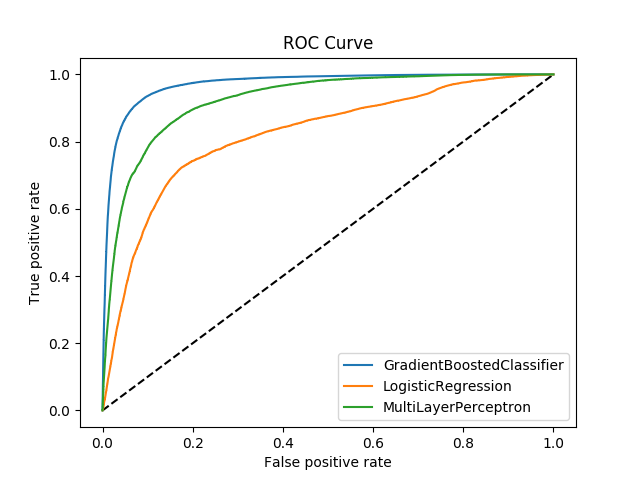
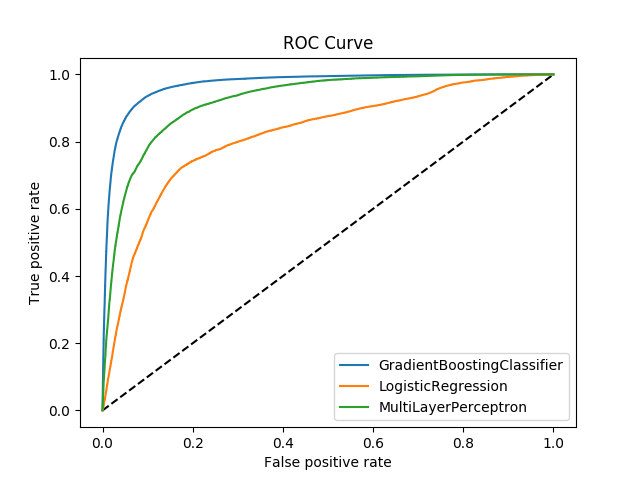
readme updated

Changed region(s): [[0.5938, 0.75, 0.875, 0.875], [0.5, 0.75, 0.5312, 0.8125], [0.5, 0.8438, 0.5312, 0.875]]

diff --git a/src/roc_profit_curve.py b/src/roc_profit_curve.py
@@ -86,14 +86,14 @@ if __name__ == "__main__":
         y_pred_gbc = gbc.predict_proba(X_holdout)[:,1]
         fpr_gbc, tpr_gbc, thresholds_gbc = roc_curve(y_holdout, y_pred_gbc)
         profit_gbc = tpr_gbc * cost_benefit[0,0] + fpr_gbc * cost_benefit[0,1]
-        model_profits.append(('GradientBoostedClassifier', gbc, profit_gbc, thresholds_gbc))
+        model_profits.append(('GradientBoostingClassifier', gbc, profit_gbc, thresholds_gbc))
         score = roc_auc_score(y_holdout, y_pred_gbc)
         print('ROC AUC: %.3f' % score)
         te= time()
         print("Time passed:", te-ts) 
 
     ### Load the final Logistic model
-    model_lg = 1
+    model_lg = 0
     if model_lg:
         print('\nLoad LR model')
         ts = time()
@@ -109,7 +109,7 @@ if __name__ == "__main__":
         print("Time passed:", te-ts) 
 
     ### Load the final mlp model
-    model_mlp = 1
+    model_mlp = 0
     if model_mlp:
         print('\nLoad MLP model')
         ts = time()
@@ -128,7 +128,7 @@ if __name__ == "__main__":
     if plot_roc:
         plt.figure(1)
         plt.plot([0, 1], [0, 1], 'k--')
-        plt.plot(fpr_gbc, tpr_gbc, label='GradientBoostedClassifier')
+        plt.plot(fpr_gbc, tpr_gbc, label='GradientBoostingClassifier')
         plt.plot(fpr_lg, tpr_lg, label='LogisticRegression')
         plt.plot(fpr_mlp, tpr_mlp, label='MultiLayerPerceptron')
         plt.xlabel('False positive rate')
@@ -141,7 +141,10 @@ if __name__ == "__main__":
     ### Plot the Profit Curve
     plot_profit = 1
     if plot_profit:
-        plot_model_profits(model_profits, 'images/profit_curve.png')
+        if model_lg and model_mlp:
+            plot_model_profits(model_profits, 'images/profit_curve.png')
+        else:
+            plot_model_profits(model_profits, 'images/profit_curve_1model.png')
 
     ### Find the max profit and corresponding model and threshold
     find_max = 0

diff --git a/README.md b/README.md
@@ -268,7 +268,7 @@ The below chart shows the partial dependence plot on the first five important fe
 
 ![](images/gbc_partDepend.png)
 
-Given the feature importance study, I made a decison to further reduce the number of explanatory to five: the loan term(Term), the unemployment rate (U_rate), the SBA guanranteed ratio (SBA_g), the gross loan amount (GrAppv), and the sector risk (SectorRisk) and proceed with the Gradient Boosting model as the final model.  A grid search is performed in hope to fine tune the hyper-parameters. 
+Given the feature importance study, I made a decison to further reduce the number of explanatory to five: the loan term(Term), the unemployment rate (U_rate), the SBA guanranteed ratio (SBA_g), the gross loan amount (GrAppv), and the sector risk (SectorRisk), and proceed with the Gradient Boosting model as the final model.  A grid search is performed in hope to fine tune the hyper-parameters. 
 
  | Parameter        | Optimal | Gridsearch Values |
  |------------------|--------:|------------------:|
@@ -281,7 +281,15 @@ Given the feature importance study, I made a decison to further reduce the numbe
 
 ### 4.3. Multi-layer Perceptron (MLP) Model <a name="mlp"></a>
 
-### 4.4. Profit Curve <a name="profit"></a>
+Machine learning models have different characteristics.  Each has its own pro's and con's.  The Gradient Boosting Classifier is a type of ensemble model that has good predicting performance. It is also able to identify key features projecting if a SBA loan will go into default.  Neural networks models have gained popularity in recent years.  These types of models aim at mimicking the human brain in learning and action.  However, the downside is the neural network models are not inferential.  They functions primarily as a black-box and a forecasting tool.  I thought it would be good to give neural networks models a try.  My goal is to see if added comlexity in model structure help predict defaults better. 
+
+Multi-layer Perceptron (MLP) model is a vanilla type of neural network models.  It has been used for pattern, speech, and image recognition tasks and obtained decent results.  The below chart illustrates the MLP model structure.  In the chart, one hidden layer and one output layer are shown.  Each layer can have different number of neurons and activation function.  The model weights are randomly initiated upfront.  A backpropagation process through partial differential equations and gradient descend then updates the weights in a recursive way, with the goal to minimize the loss function. 
+
+![](images/mlp_structure.png)
+
+
+
+### 4.4. ROC and Profit Curves <a name="profit"></a>
 
 ### 4.5. Final Model <a name="final"></a>
 
